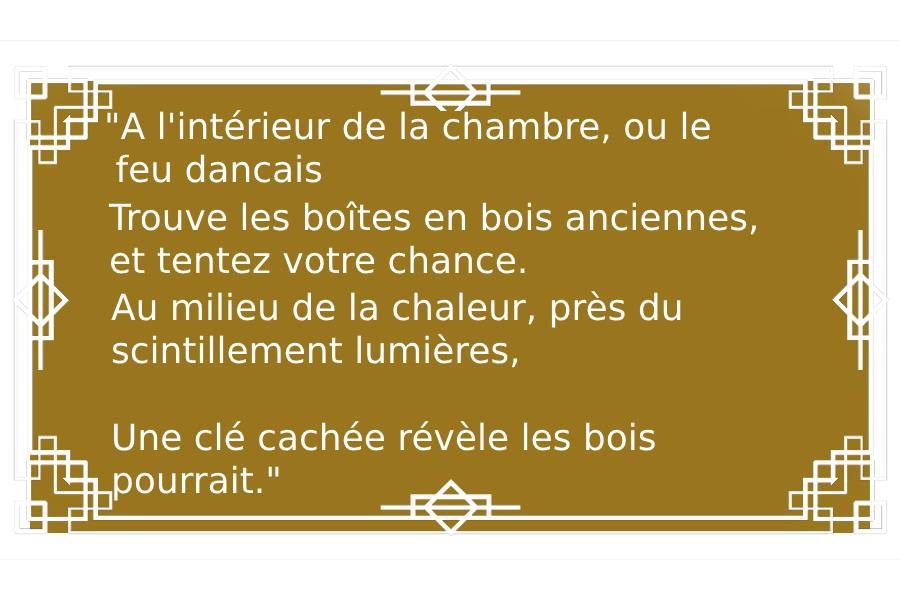
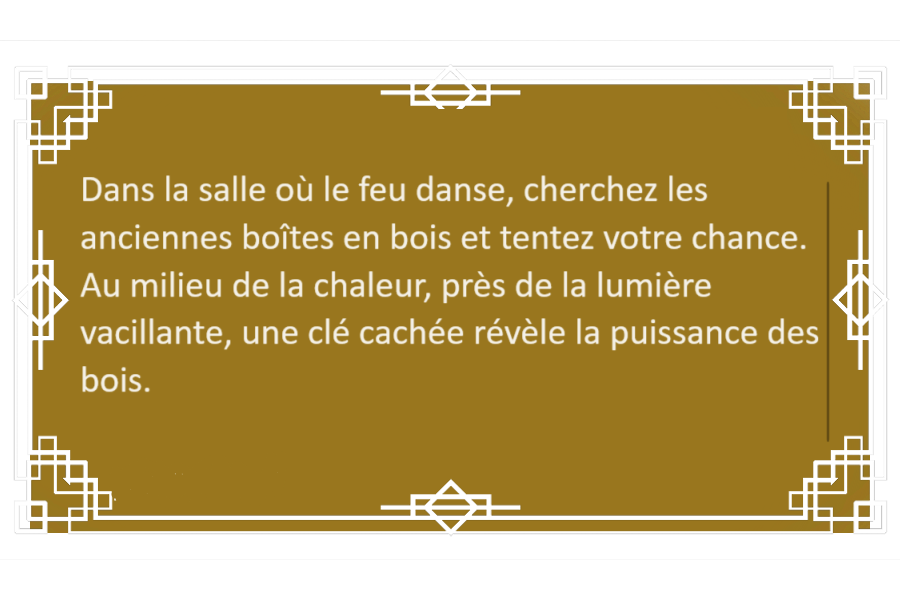
Another french update/bug fixes

diff --git a/src/scripts/scenes/storyScene.ts b/src/scripts/scenes/storyScene.ts
@@ -1,4 +1,4 @@
-import { textStyle } from '../objects/fpsStyle';
+import { storyStyle } from '../objects/fpsStyle';
 import MainScene from './mainScene'; // Update the import path if needed
 
 export default class Game extends Phaser.Scene {
@@ -35,9 +35,25 @@ export default class Game extends Phaser.Scene {
     // Adjust the X and Y coordinates for the text based on the selected language
     const textX = MainScene.selectedLanguage === 'English' ? this.cameras.main.centerX - 620 : this.cameras.main.centerX - 620;
     const textY = this.cameras.main.centerY + 0; // Adjusted the Y coordinate
-    const yOffset = -100; // Adjust the Y offset as needed
+    const yOffset = -100; // Adjust the Y offset as needed|
 
-    var text = this.add.text(textX, textY + yOffset, content, textStyle);
+    const graphics = this.add.graphics();
+    graphics.fillStyle(0xffffff, 1); // 0xffffff is white, and 1 is full opacity
+    if(MainScene.selectedLanguage === 'English')
+    {
+      graphics.fillRect(textX - 10, textY + yOffset - 10, 850, 140);
+    }
+    else if ( MainScene.selectedLanguage === 'French')
+    {
+      graphics.fillRect(textX - 10, textY + yOffset - 10, 1100, 140);
+    }
+    
+  
+ 
+    // Make sure the text is displayed above the white background
+    
+    graphics.setDepth(0); // Lower depth value ensures it's behind the text
+    var text = this.add.text(textX, textY + yOffset, content, storyStyle);
     if(MainScene.selectedLanguage === 'English')
     {
       const Continue = this.add.image(1165, 680, 'Continue').setInteractive();

diff --git a/src/scripts/scenes/preloadScene.ts b/src/scripts/scenes/preloadScene.ts
@@ -8,7 +8,7 @@ export default class PreloadScene extends Phaser.Scene {
   preload() {
     this.load.image('phaser-logo', 'assets/img/phaser-logo.png')
     this.load.image('EnglishB','./assets/img/englishButton.png')
-    this.load.image('FrenchB','./assets/img/frenchButton.png')
+    this.load.image('FrenchB','./assets/img/FrenchButton.png')
     this.load.image('End','./assets/img/endingImage.png')
     this.load.image('StartGameEngButton', './assets/img/Start-Game-Eng.png')
     this.load.image('StartGameFreButton', './assets/img/Start-Game-Fre.png')
@@ -20,7 +20,7 @@ export default class PreloadScene extends Phaser.Scene {
     this.load.image('RightArrow', './assets/img/RightArrow.png')
     this.load.image('RightArrowSelected', './assets/img/RightArrowSelected.png')
     this.load.image('Continue','./assets/img/Continue.png')
-    this.load.image('Continuer','./assets/img/continuer.png')
+    this.load.image('Continuer','./assets/img/Continuer.png')
     this.load.image('Return','./assets/img/return.png')
     this.load.image('Retour','./assets/img/retour.png')
     this.load.image('Riddle2','./assets/img/Riddle2.png')

diff --git a/src/scripts/scenes/EndScene.ts b/src/scripts/scenes/EndScene.ts
@@ -49,10 +49,26 @@ export default class Game extends Phaser.Scene {
     
         const textX = MainScene.selectedLanguage === 'English' ? this.cameras.main.centerX - 600 : this.cameras.main.centerX - 605; // Adjusted the X coordinate for English text
         const textY = this.cameras.main.centerY - 330;
+        const graphics = this.add.graphics();
+    graphics.fillStyle(0xffffff, 1); // 0xffffff is white, and 1 is full opacity
+    if(MainScene.selectedLanguage === 'English')
+    {
+      graphics.fillRect(textX - 10, textY - 10, 530, 500);
+    }
+    else if ( MainScene.selectedLanguage === 'French')
+    {
+      graphics.fillRect(textX - 10, textY - 10, 530, 400);
+    }
     
+  
+ 
+    // Make sure the text is displayed above the white background
+    
+    graphics.setDepth(0); // Lower depth value ensures it's behind the text
         var text = this.add.text(textX, textY, selectedLanguageContent, endStyle);
         text.setLineSpacing(17);
         text.setScale(0.75);
+    
     
         if(MainScene.selectedLanguage === 'English')
         {

diff --git a/src/scripts/objects/fpsStyle.ts b/src/scripts/objects/fpsStyle.ts
@@ -4,6 +4,12 @@ export const textStyle = {
     align: 'left'
   };
 
+  export const storyStyle = {
+    font: 'bold 22px Arial',
+    fill: '#000000', // Emerald green
+    align: 'left'
+  };
+
   export const introStyle = {
     font: 'bold 26px Arial',
     fill: '#000000', // White color
@@ -19,7 +25,7 @@ export const textStyle = {
     fontFamily: 'Arial',
     fontSize: '26px',
     Style: 'Strong' + 'bold',
-    color: '#4CBB17', // kelly green color
+    color: '#000000', // BLACC
     align: 'left', // Text alignment
     wordWrap: {
       width: 700, // Maximum width of the text
